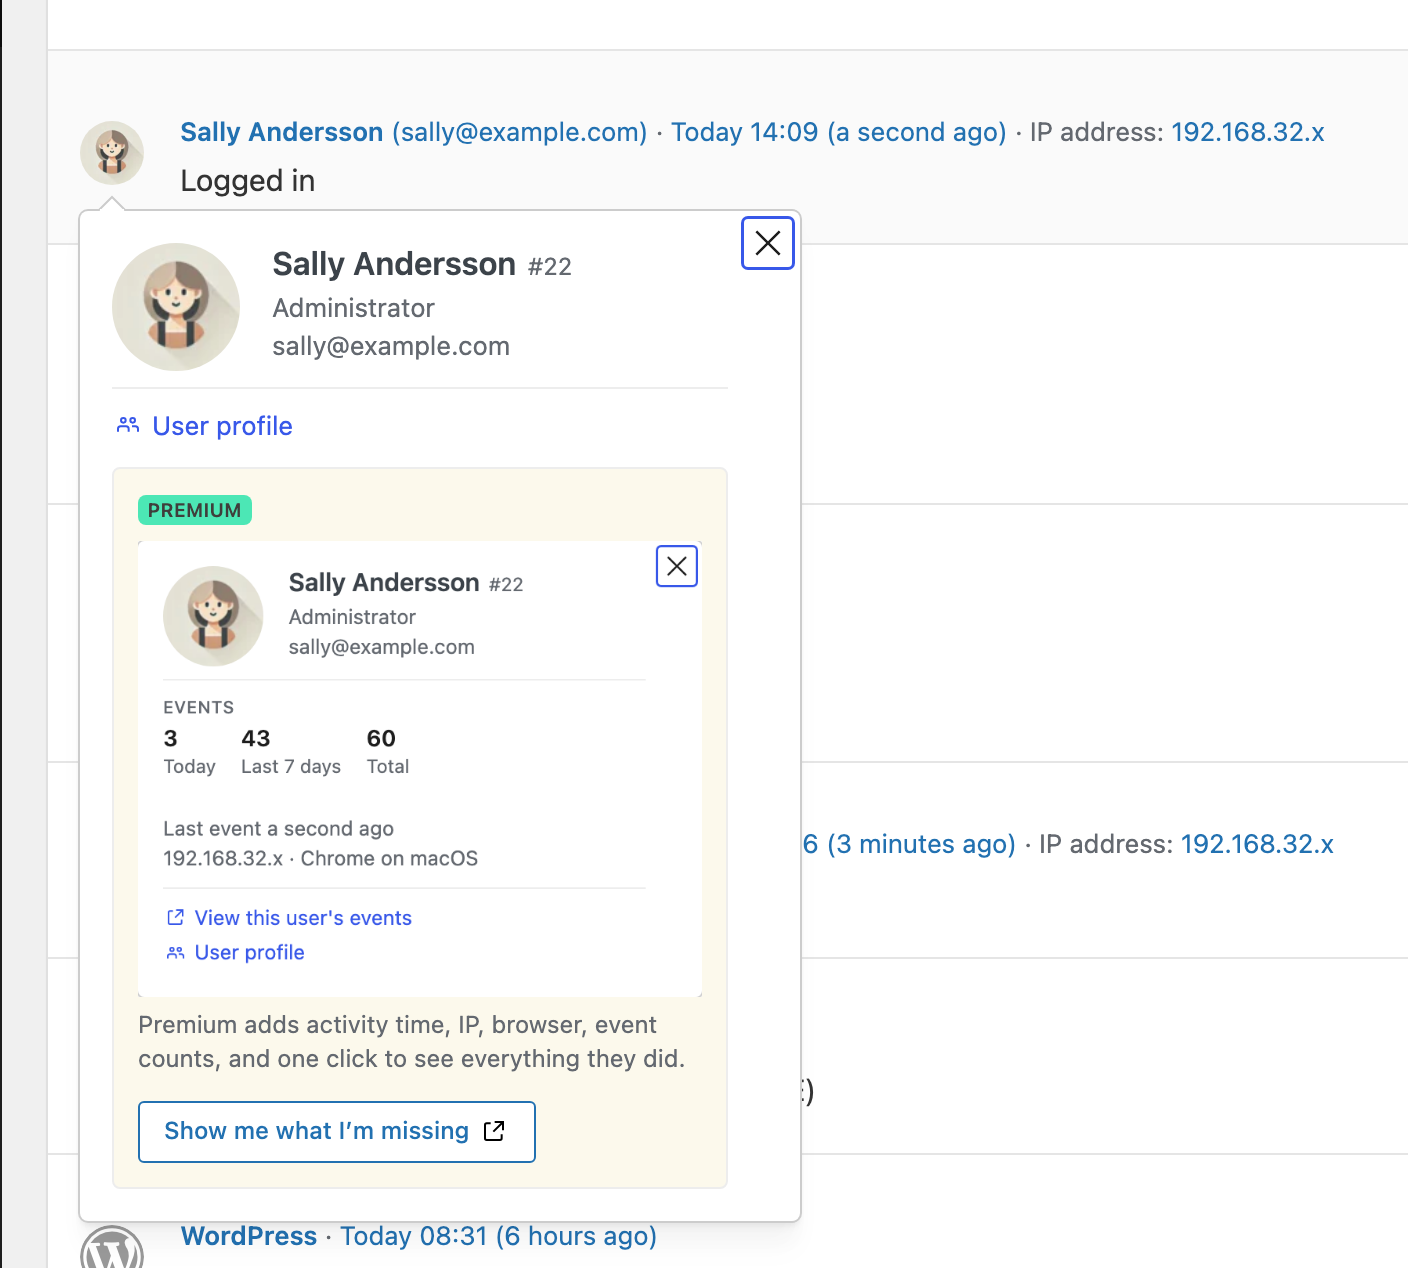
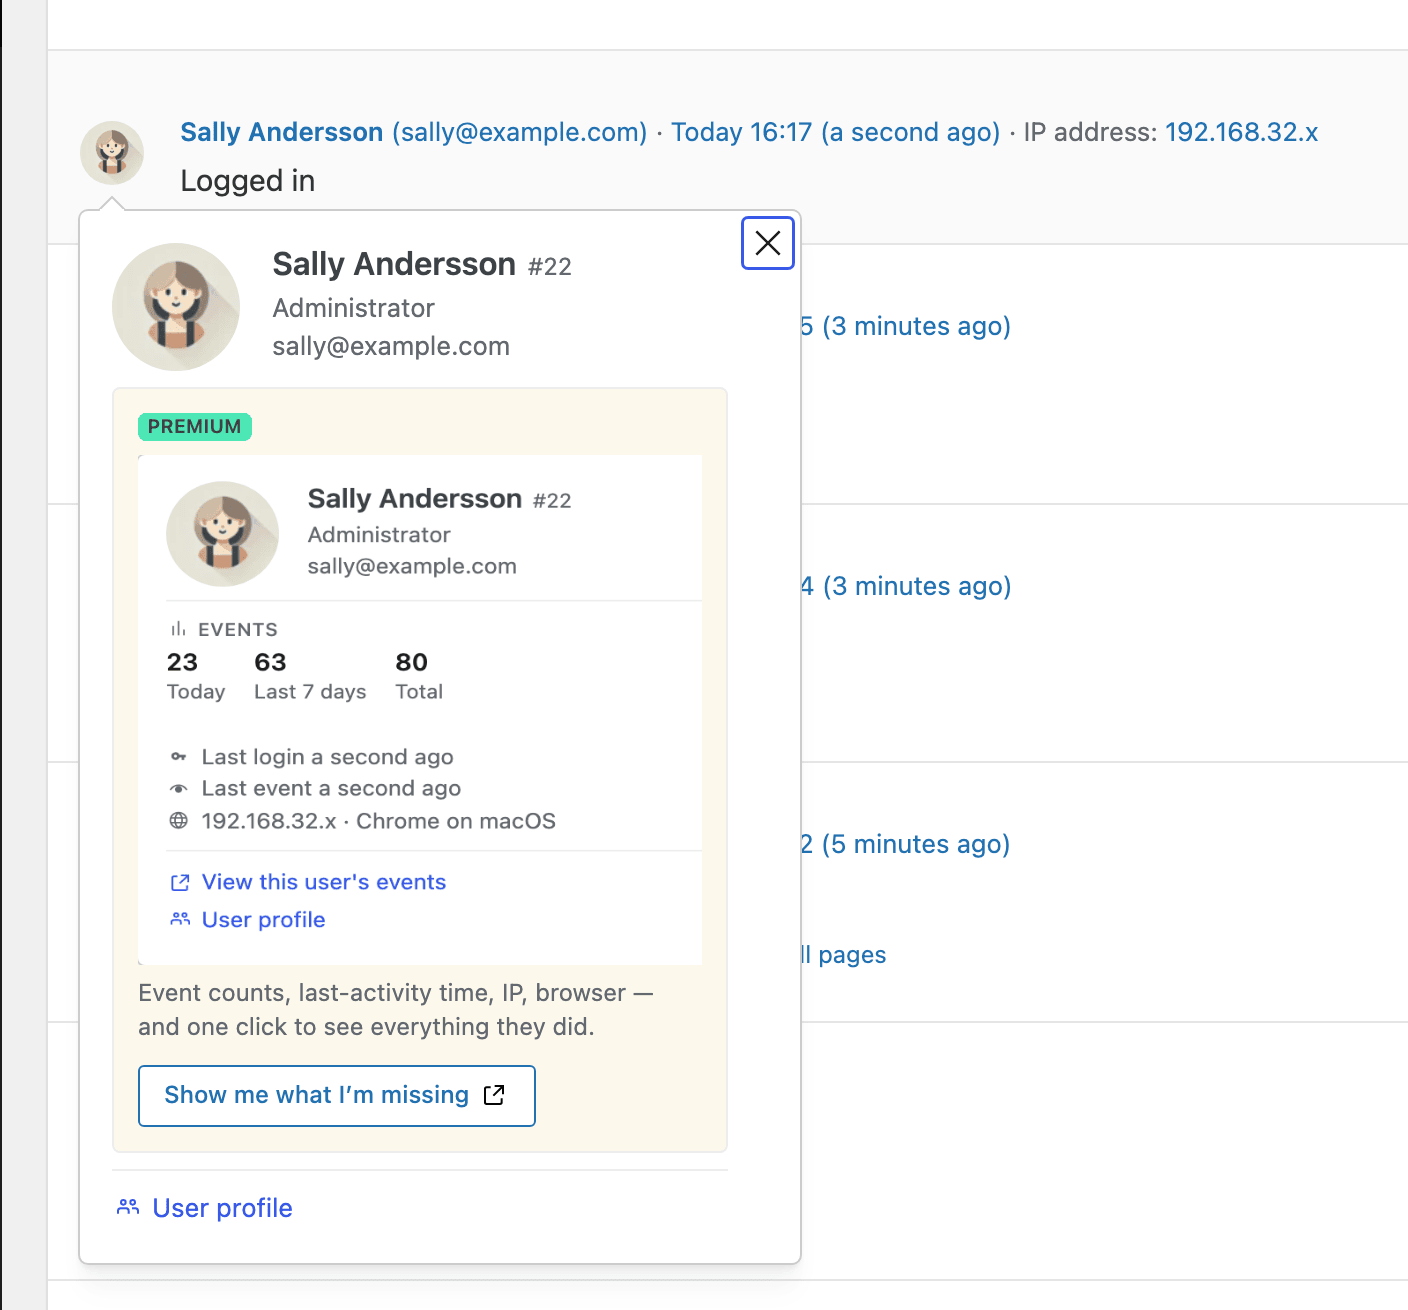
Polish user card teaser and add combined login-session lookup
UX round: shrink teaser footprint, lead caption with data, move action
link below teaser to match premium card pattern, crop the WP Popover ×
out of the embedded screenshot, add small icons (chart / key / eye /
globe) to the data rows so the three meta lines are scannable without
reading the labels.

Combined helper `get_last_login_session()` returns date + IP + UA from
the user's last login event in a single Log_Query — replaces three
separate calls and fixes a subtle inconsistency where IP came from any
event but UA only from logins.

Capture pipeline picks up two improvements: pngquant pass on output
(~67% smaller), and a tighter context clip with configurable right-side
padding so neighbouring row content shows without sprawling.

diff --git a/src/components/UserCard.jsx b/src/components/UserCard.jsx
@@ -1,7 +1,16 @@
 import { Button, Icon, Popover, Spinner } from '@wordpress/components';
 import { useEffect, useRef, useState } from '@wordpress/element';
 import { __, sprintf } from '@wordpress/i18n';
-import { close, external, people, wordpress } from '@wordpress/icons';
+import {
+	chartBar,
+	close,
+	external,
+	globe,
+	key,
+	people,
+	seen,
+	wordpress,
+} from '@wordpress/icons';
 import apiFetch from '@wordpress/api-fetch';
 import { humanTimeDiff } from '@wordpress/date';
 import { getTrackingUrl } from '../functions';
@@ -126,13 +135,13 @@ function PremiumTeaserBlurred() {
 							'Preview of the user card with Simple History Premium.',
 							'simple-history'
 						) }
-						width={ 720 }
-						height={ 582 }
+						width={ 640 }
+						height={ 580 }
 					/>
 				</a>
 				<figcaption className="sh-UserCard__teaserCaption">
 					{ __(
-						'Premium adds activity time, IP, browser, event counts, and one click to see everything they did.',
+						'Event counts, last-activity time, IP, browser — and one click to see everything they did.',
 						'simple-history'
 					) }
 				</figcaption>
@@ -235,6 +244,11 @@ function WPUserCardContent( { event, cardData, isLoading } ) {
 			{ ! isLoading && statDetails.length > 0 && (
 				<div className="sh-UserCard__stats">
 					<h5 className="sh-UserCard__statsHeading">
+						<Icon
+							icon={ chartBar }
+							size={ 14 }
+							className="sh-UserCard__statsHeadingIcon"
+						/>
 						{ __( 'Events', 'simple-history' ) }
 					</h5>
 					{ statDetails.map( ( stat ) => (
@@ -252,18 +266,41 @@ function WPUserCardContent( { event, cardData, isLoading } ) {
 
 			{ ! isLoading && textDetails.length > 0 && (
 				<ul className="sh-UserCard__meta sh-UserCard__meta--belowStats">
-					{ textDetails.map( ( detail ) => (
-						<li key={ detail.key } className="sh-UserCard__detail">
-							{ detail.label
-								? sprintf(
-										'%s %s',
-										detail.label,
-										renderDetailValue( detail )
-								  )
-								: renderDetailValue( detail ) }
-						</li>
-					) ) }
+					{ textDetails.map( ( detail ) => {
+						const iconForKey = {
+							last_activity: seen,
+							last_login: key,
+							last_session: globe,
+						}[ detail.key ];
+						return (
+							<li
+								key={ detail.key }
+								className="sh-UserCard__detail"
+							>
+								{ iconForKey && (
+									<Icon
+										icon={ iconForKey }
+										size={ 14 }
+										className="sh-UserCard__detailIcon"
+									/>
+								) }
+								<span>
+									{ detail.label
+										? sprintf(
+												'%s %s',
+												detail.label,
+												renderDetailValue( detail )
+										  )
+										: renderDetailValue( detail ) }
+								</span>
+							</li>
+						);
+					} ) }
 				</ul>
+			) }
+
+			{ ! isLoading && cardData && ! hasPremium && (
+				<PremiumTeaserBlurred />
 			) }
 
 			{ actions.length > 0 && (
@@ -292,10 +329,6 @@ function WPUserCardContent( { event, cardData, isLoading } ) {
 						) ) }
 					</ul>
 				</nav>
-			) }
-
-			{ ! isLoading && cardData && ! hasPremium && (
-				<PremiumTeaserBlurred />
 			) }
 		</div>
 	);

diff --git a/tests/playwright/screenshot-teaser-user-card.spec.js b/tests/playwright/screenshot-teaser-user-card.spec.js
@@ -158,6 +158,24 @@ test( `capture user card popover (${ MODE })`, async ( { page } ) => {
 		throw new Error( 'Could not measure popover bounding box' );
 	}
 
+	// Tight box for the close-up: just `.sh-UserCard` itself, no popover
+	// wrapper or arrow. The descendant walk above includes the WP Popover
+	// arrow, which extends from the popover toward the anchored trigger
+	// row — that pulls the top edge up into the log row above. For the
+	// close-up we only want the card content. The context shot still uses
+	// popoverBox so the arrow + cream overflow are accounted for.
+	const cardBox = await page.evaluate( () => {
+		const el = document.querySelector( '.sh-UserCard' );
+		if ( ! el ) {
+			return null;
+		}
+		const r = el.getBoundingClientRect();
+		return { x: r.x, y: r.y, width: r.width, height: r.height };
+	} );
+	if ( ! cardBox ) {
+		throw new Error( 'Could not measure .sh-UserCard bounding box' );
+	}
+
 	const viewport = page.viewportSize();
 	const clamp = ( box ) => ( {
 		x: Math.max( 0, box.x ),
@@ -166,12 +184,24 @@ test( `capture user card popover (${ MODE })`, async ( { page } ) => {
 		height: Math.min( viewport.height - Math.max( 0, box.y ), box.height ),
 	} );
 
-	// Close-up: element-level screenshot, taken IMMEDIATELY after the
-	// bounding-box measurement (no debug captures, no DOM mutations in
-	// between). The WordPress Popover seems to remove itself from the DOM
-	// on focus events that get triggered by other Playwright operations,
-	// so we keep the gap between measurement and screenshot tight.
-	await popover.screenshot( { path: OUTPUT[ MODE ].closeup } );
+	// Close-up: page.screenshot with a clip computed from popoverBox,
+	// shaving a strip off the right edge so the WP Popover close (×)
+	// button doesn't appear in the embedded teaser preview (reads as a
+	// ghost affordance — "can I close something inside the screenshot?").
+	// Done IMMEDIATELY after the bounding-box measurement (no debug
+	// captures, no DOM mutations in between). The WordPress Popover
+	// removes itself from the DOM on focus events triggered by other
+	// Playwright operations, so we keep the gap tight.
+	const CLOSE_X_CROP = 40;
+	await page.screenshot( {
+		path: OUTPUT[ MODE ].closeup,
+		clip: clamp( {
+			x: cardBox.x,
+			y: cardBox.y,
+			width: cardBox.width - CLOSE_X_CROP,
+			height: cardBox.height,
+		} ),
+	} );
 
 	// Context clip: combine popover bounds with the trigger's event row so
 	// the screenshot shows "popover anchored to this event in the log."

diff --git a/css/styles.css b/css/styles.css
@@ -4763,7 +4763,7 @@ Styles for plugin update details. Markup looks like this:
 }
 
 body.sh-has-premium .sh-UserCard--wp-user.sh-UserCard--loading {
-	min-height: 295px;
+	min-height: 290px;
 }
 
 .sh-UserCard__close.components-button {
@@ -4857,6 +4857,27 @@ body.sh-has-premium .sh-UserCard--wp-user.sh-UserCard--loading {
 
 .sh-UserCard__meta .sh-UserCard__detail + .sh-UserCard__detail {
 	margin-top: 0;
+}
+
+/* Inline icon + value layout for the meta-belowStats rows. Keeps the
+   value reading first, with a small muted icon as a wayfinder on the
+   left so the eye can scan the three lines (activity / login / session)
+   without reading the labels. */
+.sh-UserCard__meta--belowStats .sh-UserCard__detail {
+	display: flex;
+	align-items: center;
+	gap: 6px;
+}
+
+.sh-UserCard__detailIcon {
+	flex-shrink: 0;
+	fill: var(--sh-color-gray-3, #757575);
+}
+
+.sh-UserCard__statsHeadingIcon {
+	margin-right: 4px;
+	vertical-align: -2px;
+	fill: var(--sh-color-gray-3, #757575);
 }
 
 .sh-UserCard__description {
@@ -4965,7 +4986,7 @@ body.sh-has-premium .sh-UserCard--wp-user.sh-UserCard--loading {
 .sh-UserCard__premiumTeaser {
 	position: relative;
 	margin-top: var(--sh-spacing-small);
-	padding: 12px;
+	padding: 10px 12px 12px;
 	background: var(--sh-color-cream);
 	border: 1px solid var(--sh-color-gray-4);
 	border-radius: var(--sh-border-radius, 4px);
@@ -4975,7 +4996,7 @@ body.sh-has-premium .sh-UserCard--wp-user.sh-UserCard--loading {
 }
 
 .sh-UserCard__teaserHeader {
-	margin: 0 0 8px 0;
+	margin: 0 0 6px 0;
 }
 
 /* No-op kept for the non-WP-user teaser, which still passes this modifier
@@ -5033,7 +5054,7 @@ body.sh-has-premium .sh-UserCard--wp-user.sh-UserCard--loading {
 /* Premium teaser screenshot block — figure + caption + CTA.
    Screenshot regen: npm run screenshots:teaser-user-card. */
 .sh-UserCard__teaserScreenshot {
-	margin: 0 0 8px 0;
+	margin: 0 0 6px 0;
 }
 
 .sh-UserCard__teaserScreenshot img {
@@ -5044,7 +5065,7 @@ body.sh-has-premium .sh-UserCard--wp-user.sh-UserCard--loading {
 	   on first open (causes a scrollbar until the image loads + repositions).
 	   Ratio matches the source PNG produced by the teaser-screenshots skill;
 	   tolerant of small variance run-to-run. */
-	aspect-ratio: 720 / 582;
+	aspect-ratio: 640 / 580;
 	/* No box-shadow / white frame — the screenshot already has its own
 	   popover border and shadow baked in. Adding another shadow inside the
 	   cream block creates a busy triple-frame effect. */

diff --git a/inc/class-wp-rest-user-card-controller.php b/inc/class-wp-rest-user-card-controller.php
@@ -498,6 +498,49 @@ class WP_REST_User_Card_Controller extends WP_REST_Controller {
 	}
 
 	/**
+	 * Get date + IP + user-agent for the user's most recent login event in a
+	 * single query.
+	 *
+	 * Faster path for callers that need all three (the premium user-card
+	 * module is the main one). Replaces three separate Log_Query calls —
+	 * `get_last_login()` + `get_last_ip_for_user()` + `get_last_user_agent_for_user()`
+	 * — with one. IP comes from the same login event as the UA, so the two
+	 * always describe the same session (previously they could diverge:
+	 * IP was pulled from the last event of any kind, UA only from logins).
+	 *
+	 * @param int $user_id WordPress user ID.
+	 * @return array|null { date: string, ip: string|null, user_agent: string|null }
+	 *                   or null if no login event was found.
+	 */
+	public static function get_last_login_session( $user_id ) {
+		$log_query = new Log_Query();
+
+		$query_result = $log_query->query(
+			[
+				'user'             => $user_id,
+				'messages'         => 'SimpleUserLogger:user_logged_in',
+				'posts_per_page'   => 1,
+				'skip_count_query' => true,
+				'ungrouped'        => true,
+			]
+		);
+
+		$events = $query_result['log_rows'] ?? [];
+
+		if ( empty( $events ) ) {
+			return null;
+		}
+
+		$event = $events[0];
+
+		return [
+			'date'       => get_date_from_gmt( $event->date ),
+			'ip'         => $event->context['_server_remote_addr'] ?? null,
+			'user_agent' => $event->context['server_http_user_agent'] ?? null,
+		];
+	}
+
+	/**
 	 * Get the most recent event date for a user, optionally filtered by message type.
 	 *
 	 * @param int         $user_id  WordPress user ID.

diff --git a/.claude/skills/teaser-screenshots/SKILL.md b/.claude/skills/teaser-screenshots/SKILL.md
@@ -47,7 +47,9 @@ Runs in ~30 seconds (two Playwright passes + plugin toggles). For each mode the 
 -   a tight clip of just the popover
 -   a wider clip that includes the event row the trigger anchors to (so the screenshot shows _where_ the popover lives on the page)
 
-Run the orchestrator instead of invoking Playwright directly — the script handles the premium activate/deactivate dance and trap-restores premium on exit even if a test fails. Manual single-mode runs are still possible via `SH_TEASER_MODE=premium|free playwright test tests/playwright/screenshot-teaser-user-card.spec.js --project=chromium`.
+After capture, the orchestrator runs each PNG through `pngquant` (`--quality=80-95 --strip --skip-if-larger`) — typically shrinks files ~65–70% with no visible quality loss. If `pngquant` isn't installed (`brew install pngquant`), the step is skipped with a hint and the un-optimized PNGs still ship.
+
+Run the orchestrator instead of invoking Playwright directly — the script handles the premium activate/deactivate dance, the optimization step, and trap-restores premium on exit even if a test fails. Manual single-mode runs are still possible via `SH_TEASER_MODE=premium|free playwright test tests/playwright/screenshot-teaser-user-card.spec.js --project=chromium` (but you'll need to run `pngquant` yourself afterwards).
 
 ## When to re-run
 
